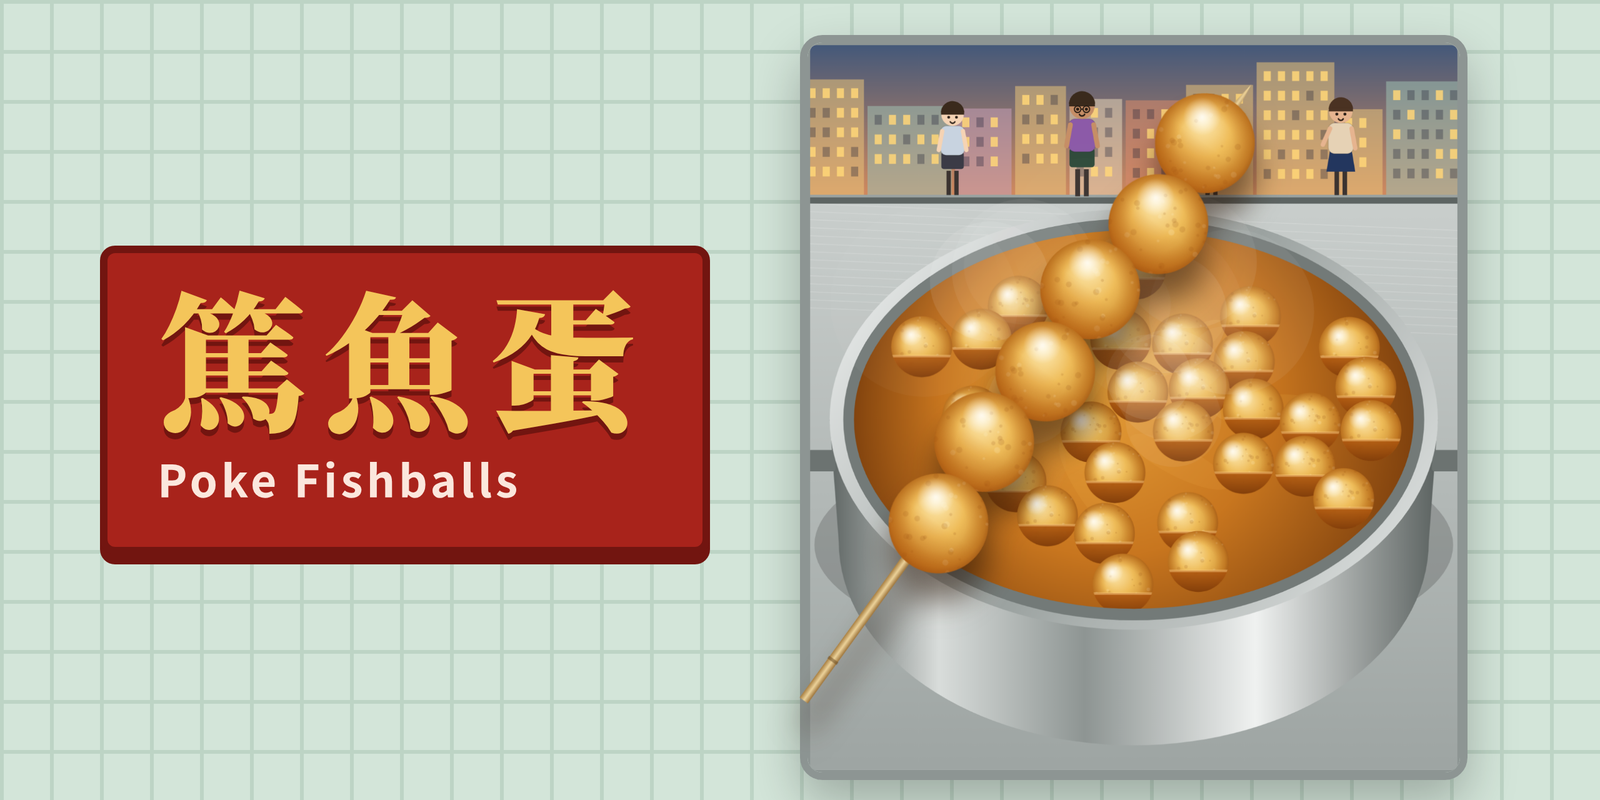
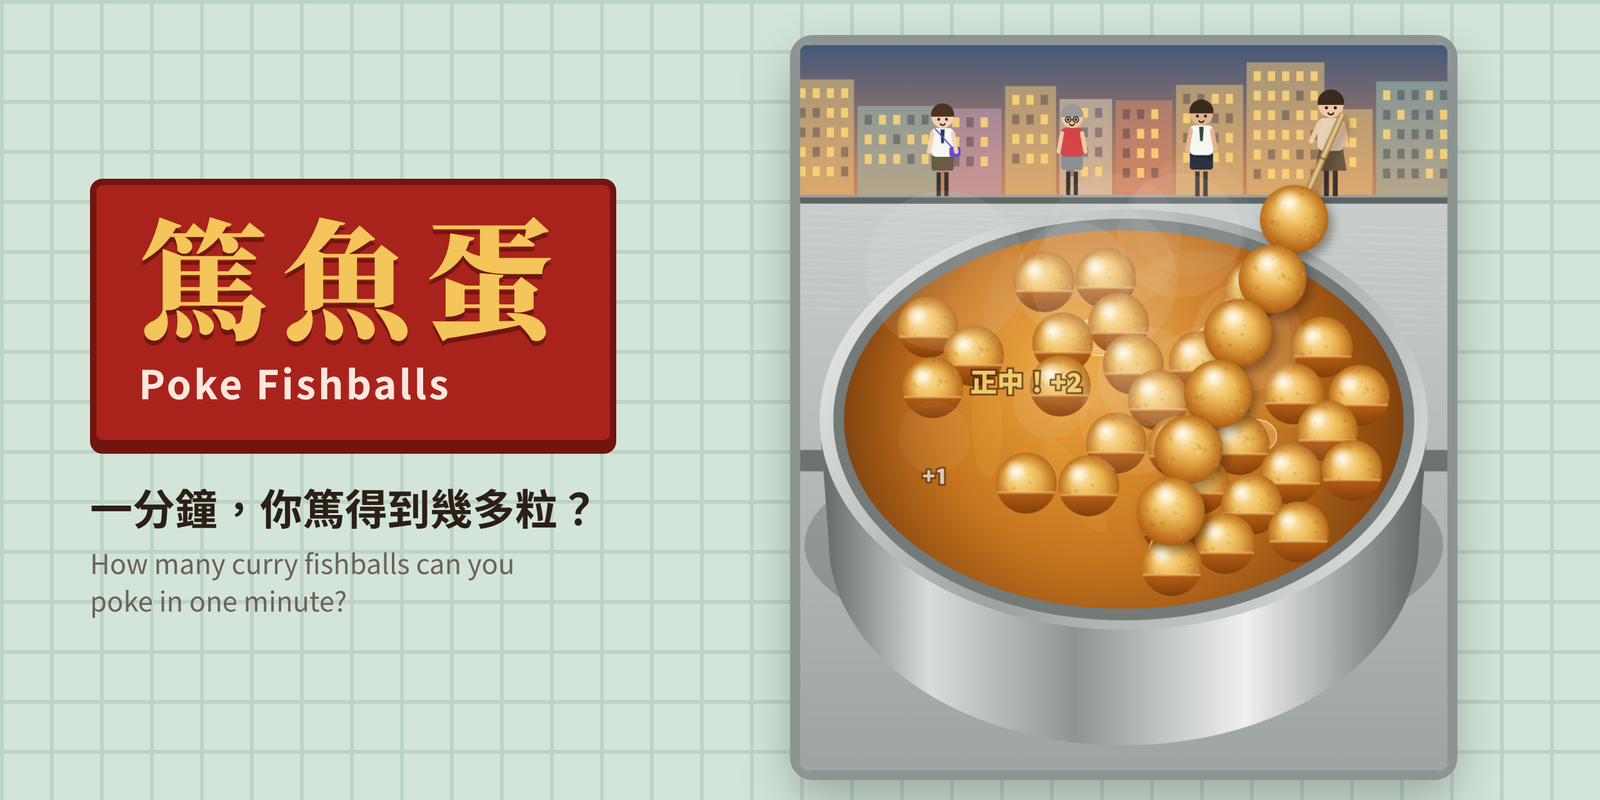
Curry boils harder as time runs out; simpler thumbnail
- Current speeds up to 2.6x by the last second (BOIL_MAX in js/config.js), with rising
  bubbles that bump the fishballs and more steam; calms down after the game
- Start screen tells players about the boil, in both languages
- Thumbnail: sign, question line and the pot scene with a poked stick pointing top right; badges removed

Claude-Session: https://claude.ai/code/session_01FHCwhauFuPAMvhFwEgczAh

diff --git a/js/items.js b/js/items.js
@@ -186,8 +186,15 @@ function collide() {
     }
   }
 }
+// 1 at the start of a game, rising to BOIL_MAX as the clock runs down
+function boilLevel() {
+  if (state !== 'play' && state !== 'paused') return 1;
+  const done = clamp(1 - timeLeft / GAME_TIME, 0, 1);
+  return 1 + (BOIL_MAX - 1) * Math.pow(done, 1.3);
+}
 function physics(dt) {
-  const flow = L.R * 0.16 * LEVELS[playLevel].flow;
+  const boil = boilLevel();
+  const flow = L.R * 0.16 * LEVELS[playLevel].flow * boil;
   for (const b of balls) {
     if (b.drop > 0) {
       b.drop = Math.max(0, b.drop - dt * 2.4);
@@ -198,9 +205,19 @@ function physics(dt) {
     // a slow simmering swirl plus a wandering current
     const tx = (-b.y / d) * flow * (d / L.rin) + Math.sin(tNow * 0.6 + b.phase * 3) * flow * 0.5;
     const ty = (b.x / d) * flow * (d / L.rin) + Math.cos(tNow * 0.8 + b.phase * 2) * flow * 0.5;
-    const k = 1 - Math.exp(-1.1 * dt);
+    const k = 1 - Math.exp(-1.1 * boil * dt);
     b.vx += (tx - b.vx) * k; b.vy += (ty - b.vy) * k;
     b.x += b.vx * dt; b.y += b.vy * dt;
   }
+  // rolling boil: bubbles rise at random spots, and each one bumps whatever is floating there
+  const rate = 1.5 * Math.pow(boil, 2.4);
+  if (Math.random() < rate * dt) {
+    const a = Math.random() * TAU, d = Math.sqrt(Math.random()) * L.rin;
+    const bx = Math.cos(a) * d, by = Math.sin(a) * d;
+    bubbles.push({ x: bx, y: by, t: 0, life: rand(0.35, 0.7), s: rand(0.26, 0.48) * (0.8 + boil * 0.25) });
+    impulse(bx, by, L.r * 2.6, L.R * 0.22 * boil);
+  }
+  bubbles.forEach((q) => (q.t += dt));
+  bubbles = bubbles.filter((q) => q.t < q.life);
   collide(); collide();
 }

diff --git a/js/draw.js b/js/draw.js
@@ -55,6 +55,20 @@ function drawPot() {
     ctx.fillStyle = `rgba(255,${190 + i * 6},90,0.10)`;
     ctx.beginPath(); ctx.ellipse(cx + Math.cos(a) * d, cy + Math.sin(a) * d * sq, R * 0.18, R * 0.05, a * 0.5, 0, TAU); ctx.fill();
   }
+  // boiling bubbles: swell, then pop into a little ring
+  for (const q of bubbles) {
+    const k = q.t / q.life, bx = cx + q.x, by = cy + q.y * sq, rr0 = L.r * q.s;
+    if (k < 0.75) {
+      const rad = rr0 * (0.4 + k);
+      ctx.fillStyle = 'rgba(255,214,150,0.35)';
+      ctx.strokeStyle = 'rgba(255,236,200,0.75)'; ctx.lineWidth = 1.2;
+      ctx.beginPath(); ctx.ellipse(bx, by, rad, rad * 0.8, 0, 0, TAU); ctx.fill(); ctx.stroke();
+    } else {
+      const p = (k - 0.75) / 0.25, rad = rr0 * (1.2 + p * 1.6);
+      ctx.strokeStyle = `rgba(255,236,200,${0.6 * (1 - p)})`; ctx.lineWidth = 1.2;
+      ctx.beginPath(); ctx.ellipse(bx, by, rad, rad * sq, 0, 0, TAU); ctx.stroke();
+    }
+  }
   for (const rp of ripples) {
     const k = rp.t / 0.7, rad = L.r * (0.6 + k * 3.2);
     ctx.strokeStyle = `rgba(255,225,170,${0.55 * (1 - k)})`;

diff --git a/js/i18n.js b/js/i18n.js
@@ -20,6 +20,7 @@ const STRINGS = {
     'intro.step1': '對準魚蛋，㩒落去篤',
     'intro.step2': '放手提起竹籤，再篤下一粒',
     'intro.step3': '一串六粒，自動交俾客人',
+    'intro.boil': '時間越少，湯滾得越勁，魚蛋會郁得越快！',
     'level.pick': '揀關卡',
     'level.normal': '普通', 'level.normalDesc': '成煲都係魚蛋',
     'level.hard': '挑戰', 'level.hardDesc': '雜錦煲，篤錯會扣分',
@@ -96,6 +97,7 @@ const STRINGS = {
     'intro.step1': 'Press down on a fishball to poke it',
     'intro.step2': 'Release to lift the stick, then poke the next one',
     'intro.step3': 'Six per stick, handed to the customer automatically',
+    'intro.boil': 'The less time left, the harder the curry boils, and the faster the fishballs move!',
     'level.pick': 'Choose a level',
     'level.normal': 'Normal', 'level.normalDesc': 'Only fishballs in the pot',
     'level.hard': 'Challenge', 'level.hardDesc': 'Mixed pot, wrong pokes cost points',

diff --git a/js/game.js b/js/game.js
@@ -29,7 +29,7 @@ function update(dt) {
   ripples.forEach((r) => (r.t += dt)); ripples = ripples.filter((r) => r.t < 0.7);
   pops.forEach((p) => (p.t += dt)); pops = pops.filter((p) => p.t < 0.9);
 
-  if (!reduceMotion && Math.random() < dt * 8) {
+  if (!reduceMotion && Math.random() < dt * 8 * Math.sqrt(boilLevel())) {
     steam.push({ x: L.cx + rand(-0.7, 0.7) * L.R, y: L.cy + rand(-0.3, 0.3) * L.R * L.sq, t: 0, life: rand(1.6, 2.6), s: rand(0.8, 1.4), vx: rand(-8, 8) });
   }
   steam.forEach((p) => { p.t += dt; p.y -= dt * L.R * 0.28; p.x += p.vx * dt; });
@@ -152,7 +152,7 @@ function startGame() {
   state = 'play';
   timeLeft = GAME_TIME; score = 0; sticks = 0; served = 0; perfects = 0; slips = 0; wrong = 0;
   stick.balls = []; stick.pressed = false; stick.needLift = false;
-  flyers = []; pops = [];
+  flyers = []; pops = []; bubbles = [];
   seedBalls();
   $('intro').hidden = true; $('result').hidden = true; $('board').hidden = true;
   setChips(false);

diff --git a/index.html b/index.html
@@ -55,6 +55,7 @@
           <li data-i18n="intro.step2"></li>
           <li data-i18n="intro.step3"></li>
         </ol>
+        <p class="note" data-i18n="intro.boil"></p>
         <div class="levels" role="radiogroup" data-i18n-aria="level.pick">
           <button class="level" id="lv-normal" role="radio" aria-checked="true" type="button"><b data-i18n="level.normal"></b><span data-i18n="level.normalDesc"></span></button>
           <button class="level" id="lv-hard" role="radio" aria-checked="false" type="button"><b data-i18n="level.hard"></b><span data-i18n="level.hardDesc"></span></button>

diff --git a/js/config.js b/js/config.js
@@ -4,6 +4,8 @@ const TAU = Math.PI * 2;
 const STICK_CAP = 6;          // fishballs per stick; a full stick is handed over automatically
 const CENTER_BONUS = 1;       // extra point for a fishball poked dead centre
 const GAME_TIME = 60;
+// the curry boils harder as time runs out: at the last second, the current is this many times faster
+const BOIL_MAX = 2.6;
 const REFILL_EVERY = 0.25;    // seconds between new items dropped into the pot
 const WRONG_PENALTY = 2;      // challenge level: poking anything that isn't a fishball
 const LEVELS = {

diff --git a/js/state.js b/js/state.js
@@ -36,6 +36,7 @@ let state = 'ready';
 let timeLeft = GAME_TIME, score = 0, sticks = 0, served = 0, perfects = 0, slips = 0, wrong = 0;
 let level = 'normal', playLevel = 'normal', lbLevel = 'normal';
 let tNow = 0, refillTimer = 0;
+let bubbles = [];   // boiling bubbles on the curry surface
 let bg = null, sprites = null;
 let lastRun = null;
 const stick = {

diff --git a/README.md b/README.md
@@ -1,6 +1,6 @@
 # 篤魚蛋 Poke Fishballs
 
-![篤魚蛋 Poke Fishballs: a stick of six curry fishballs pointing up over a pot of curry at the stall](assets/thumbnail.png)
+![篤魚蛋 Poke Fishballs: a stick of poked curry fishballs over a simmering pot at the stall](assets/thumbnail.png)
 
 **Mini games to poke the most fishballs in one minute.**
 
@@ -68,6 +68,7 @@ When items overlap, the poke hits the one in front.
 
 - Fishballs float and drift in a slow swirl of simmering curry.
 - Every poke pushes nearby items away with a ripple. Dragging the stick while it's down in the pot stirs the items around it.
+- **The curry boils harder as time runs out.** It starts at a gentle simmer. Bubbles rise more and more often and bump the fishballs, and the current speeds up to 2.6× by the last second, so the last 20 seconds are the hardest. (The pot calms down again after the game.)
 - The stall keeps topping up the pot: a new item drops in about every 0.25 seconds whenever the pot is below its target.
 
 ### Customers
@@ -380,6 +381,7 @@ All in `js/config.js`:
 | `CENTER_BONUS` | 1 | Extra point for a centre hit |
 | `WRONG_PENALTY` | 2 | Points lost for a non-fishball item |
 | `REFILL_EVERY` | 0.25 | Seconds between items dropped into the pot |
+| `BOIL_MAX` | 2.6 | How much faster the curry moves at the last second than at the start |
 | `LEVELS.normal` | 30 items, 0% other items | 普通 settings |
 | `LEVELS.hard` | 34→44 items, 40%→70% other items, 1.35× current, +2 items per stick | 挑戰 settings |
 | `HISTORY_MAX` | 50 | Games kept in personal history |
